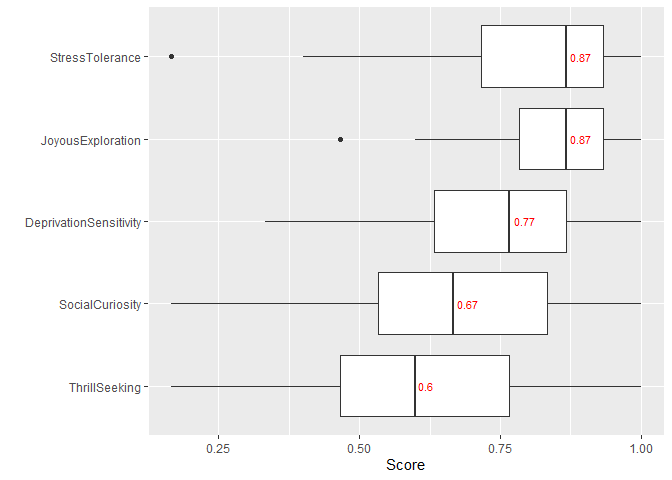
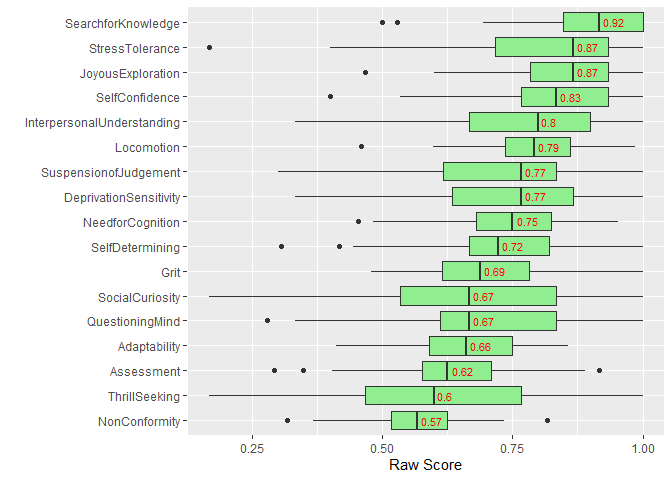
commit end of day

diff --git a/CATTCon_Personality_Dashboard.md b/CATTCon_Personality_Dashboard.md
@@ -1,5 +1,7 @@
-CATTCon Results
+NG CATTConV Survey Results
 ================
+
+### 59 cybersecurity professionals and 12 professionals filling non-cybersecurity roles participated in this data collection.
 
 ### Demographic Information (Education, Certifications, Hobbies)
 
@@ -7,13 +9,17 @@ CATTCon Results
 
 ![](CATTCon_Personality_Dashboard_files/figure-gfm/unnamed-chunk-1-1.png)<!-- -->
 
-##### Certifications: Certification(s) achieved by percentage of cybersecurity professionals.
+##### Years of Experience of cybersecuirty professionals.
 
 ![](CATTCon_Personality_Dashboard_files/figure-gfm/unnamed-chunk-2-1.png)<!-- -->
 
-##### Hobbies: hobbies reported by cybersecurity professionals.
+##### Certifications reported by cybersecurity professionals.
 
 ![](CATTCon_Personality_Dashboard_files/figure-gfm/unnamed-chunk-3-1.png)<!-- -->
+
+##### Hobbies reported by cybersecurity professionals.
+
+![](CATTCon_Personality_Dashboard_files/figure-gfm/unnamed-chunk-4-1.png)<!-- -->
 
 ### Behavioral Trait Importance
 
@@ -37,67 +43,59 @@ CATTCon Results
 
 ##### **Scale: 1 - Not Important, 7 - Very Important**
 
-![](CATTCon_Personality_Dashboard_files/figure-gfm/unnamed-chunk-4-1.png)<!-- -->
-
-### Distribution of Respondent Raw Scores: check for normal distribution
-
 ![](CATTCon_Personality_Dashboard_files/figure-gfm/unnamed-chunk-5-1.png)<!-- -->
 
-### Personality Trait Raw Scores (8 Categories)
-
-##### Cybersecurity professionals are displayed in the \*\*green\* boxplots.
-
-  - *Adaptability*: ability to adjust to new conditions.
-  - *Assessment*: focus on self-evaluation and “doing the right thing.”
-  - *Curiosity*: seek out situations with potential for new information
-    and experiences.
-  - *Grit*: perseverance and passion for long-term goals.
-  - *Locomotion*: decisiveness, task orentiation, intrinsic motivation
-    to get the job done.
-  - *Need for Cognition*: engage and enjoy effortful cognitive
-    endeavors.
-  - *Non-Conformity*: refusal to conform to prevailing rules or
-    practices.
-  - *Skepticism*: critically asssessing evidence before making a
-    decision.
+### Distribution of Respondent Raw Scores
 
 ![](CATTCon_Personality_Dashboard_files/figure-gfm/unnamed-chunk-6-1.png)<!-- -->
 
-### Personality Trait: Curiosity Category (5 Dimensions)
+### Personality Trait Raw Scores (17 Dimensions)
 
-  - *DeprivationSensitivity*: Seeking information to escape the tension
-    of not knowing something. Intellectually engaged to think about
-    abstract or complex ideas and solve problems.
-  - *JoyousExploration*: Preference for new information and experiences,
-    and the valuing of self-expansion over security.
-  - *SocialCuriosity*: Desire to know what other people are thinking and
-    doing through overt means (observing and probing questions) or
-    covert means (listening into conversations or gathering second-hand
-    information).  
-  - *StressTolerance*: Ability to cope win the anxiety inherent in
-    confronting the new, unexpected, complex, mysterious, and obscure
-    events.
-  - *ThrillSeeking*: On the hunt for varied, novel, complex, and intense
-    experiences and ready to risk physical, social, and financial
-    safety.
+###### Cybersecurity professionals are displayed in the **green** boxplots. Boxplots graphically depict numerical data through their quartiles. Boxplots are non-parametric: they display variation in samples of a statistical population without making any assumptions of the underlying statistical distribution. The median value is labeled in **red** text. Outliers are plotted as black dots.
 
 ![](CATTCon_Personality_Dashboard_files/figure-gfm/unnamed-chunk-7-1.png)<!-- -->
 
-### Personality Trait: Skepticism Category (6 Dimensions)
+##### The definition of each dimension, in order of their scores among cybersecurity professionals, is as follows:
 
-  - *QuestioningMind*: Attitude to look below the surface and see if the
-    numbers, situation, factors or people look out of place.
+  - *SearchforKnowledge*: Ability to ask questions beyond the obvious
+    answer.
+  - *StressTolerance*: Ability to cope win the anxiety inherent in
+    confronting the new, unexpected, complex, mysterious, and obscure
+    events.
+  - *JoyousExploration*: Preference for new information and experiences,
+    and the valuing of self-expansion over security.
   - *SelfConfidence*: Someone who would be unafraid to pursue a
     resolution when he/she uncovers a questionable activity.
   - *InterpersonalUnderstanding*: Not placing inappropriate degree of
     trust in people, processes, controls and data.
-  - *SearchforKnowledge*: Ability to ask questions beyond the obvious
-    answer.
-  - *SelfDetermining*: Taking a step back from an issue, position, or
-    posture and asking “does this make sense to me?”
+  - *Locomotion*: decisiveness, task orentiation, intrinsic motivation
+    to get the job done.
   - *SuspensionofJudgement*: Characteristic of withholding a conclusion
     on a matter until sufficient evidence to form a basis for a
-    reasonable conclusion has been obtained.
+    reasonable conclusion has been obtained
+  - *DeprivationSensitivity*: Seeking information to escape the tension
+    of not knowing something. Intellectually engaged to think about
+    abstract or complex ideas and solve problems.
+  - *Need for Cognition*: engage and enjoy effortful cognitive
+    endeavors.
+  - *SelfDetermining*: Taking a step back from an issue, position, or
+    posture and asking “does this make sense to me?”
+  - *Grit*: perseverance and passion for long-term goals.
+  - *SocialCuriosity*: Desire to know what other people are thinking and
+    doing through overt means (observing and probing questions) or
+    covert means (listening into conversations or gathering second-hand
+    information).
+  - *QuestioningMind*: Attitude to look below the surface and see if the
+    numbers, situation, factors or people look out of place.
+  - *Adaptability*: ability to adjust to new conditions.
+  - *Assessment*: focus on self-evaluation and “doing the right thing.”
+  - *ThrillSeeking*: On the hunt for varied, novel, complex, and intense
+    experiences and ready to risk physical, social, and financial
+    safety.
+  - *Non-Conformity*: refusal to conform to prevailing rules or
+    practices.
+
+### Personality Trait Raw Scores by self-reported Technical Level
 
 ![](CATTCon_Personality_Dashboard_files/figure-gfm/unnamed-chunk-8-1.png)<!-- -->
 
@@ -106,7 +104,7 @@ CATTCon Results
   - *Self-Efficacy*: belief in one’s own ability to deal with a
     prospective situation in cybersecurity roles.
 
-##### **Scale: 1 - low confidence in ability, 7 - very high confidence in ability**
+##### **Scale: 1 - low confidence in ability, 7 - very high confidence in ability/knowledge**
 
 ![](CATTCon_Personality_Dashboard_files/figure-gfm/unnamed-chunk-9-1.png)<!-- -->
 
@@ -115,6 +113,10 @@ CATTCon Results
 ##### Green boxes are drawn around results of hierarchical clustering of these personality dimensions.
 
 ![](CATTCon_Personality_Dashboard_files/figure-gfm/unnamed-chunk-10-1.png)<!-- -->
+
+### Army Tier1 Comparison: Personality Trait Raw Scores by self-reported Tier1 category
+
+![](CATTCon_Personality_Dashboard_files/figure-gfm/unnamed-chunk-11-1.png)<!-- -->
 
 #### References:
 
